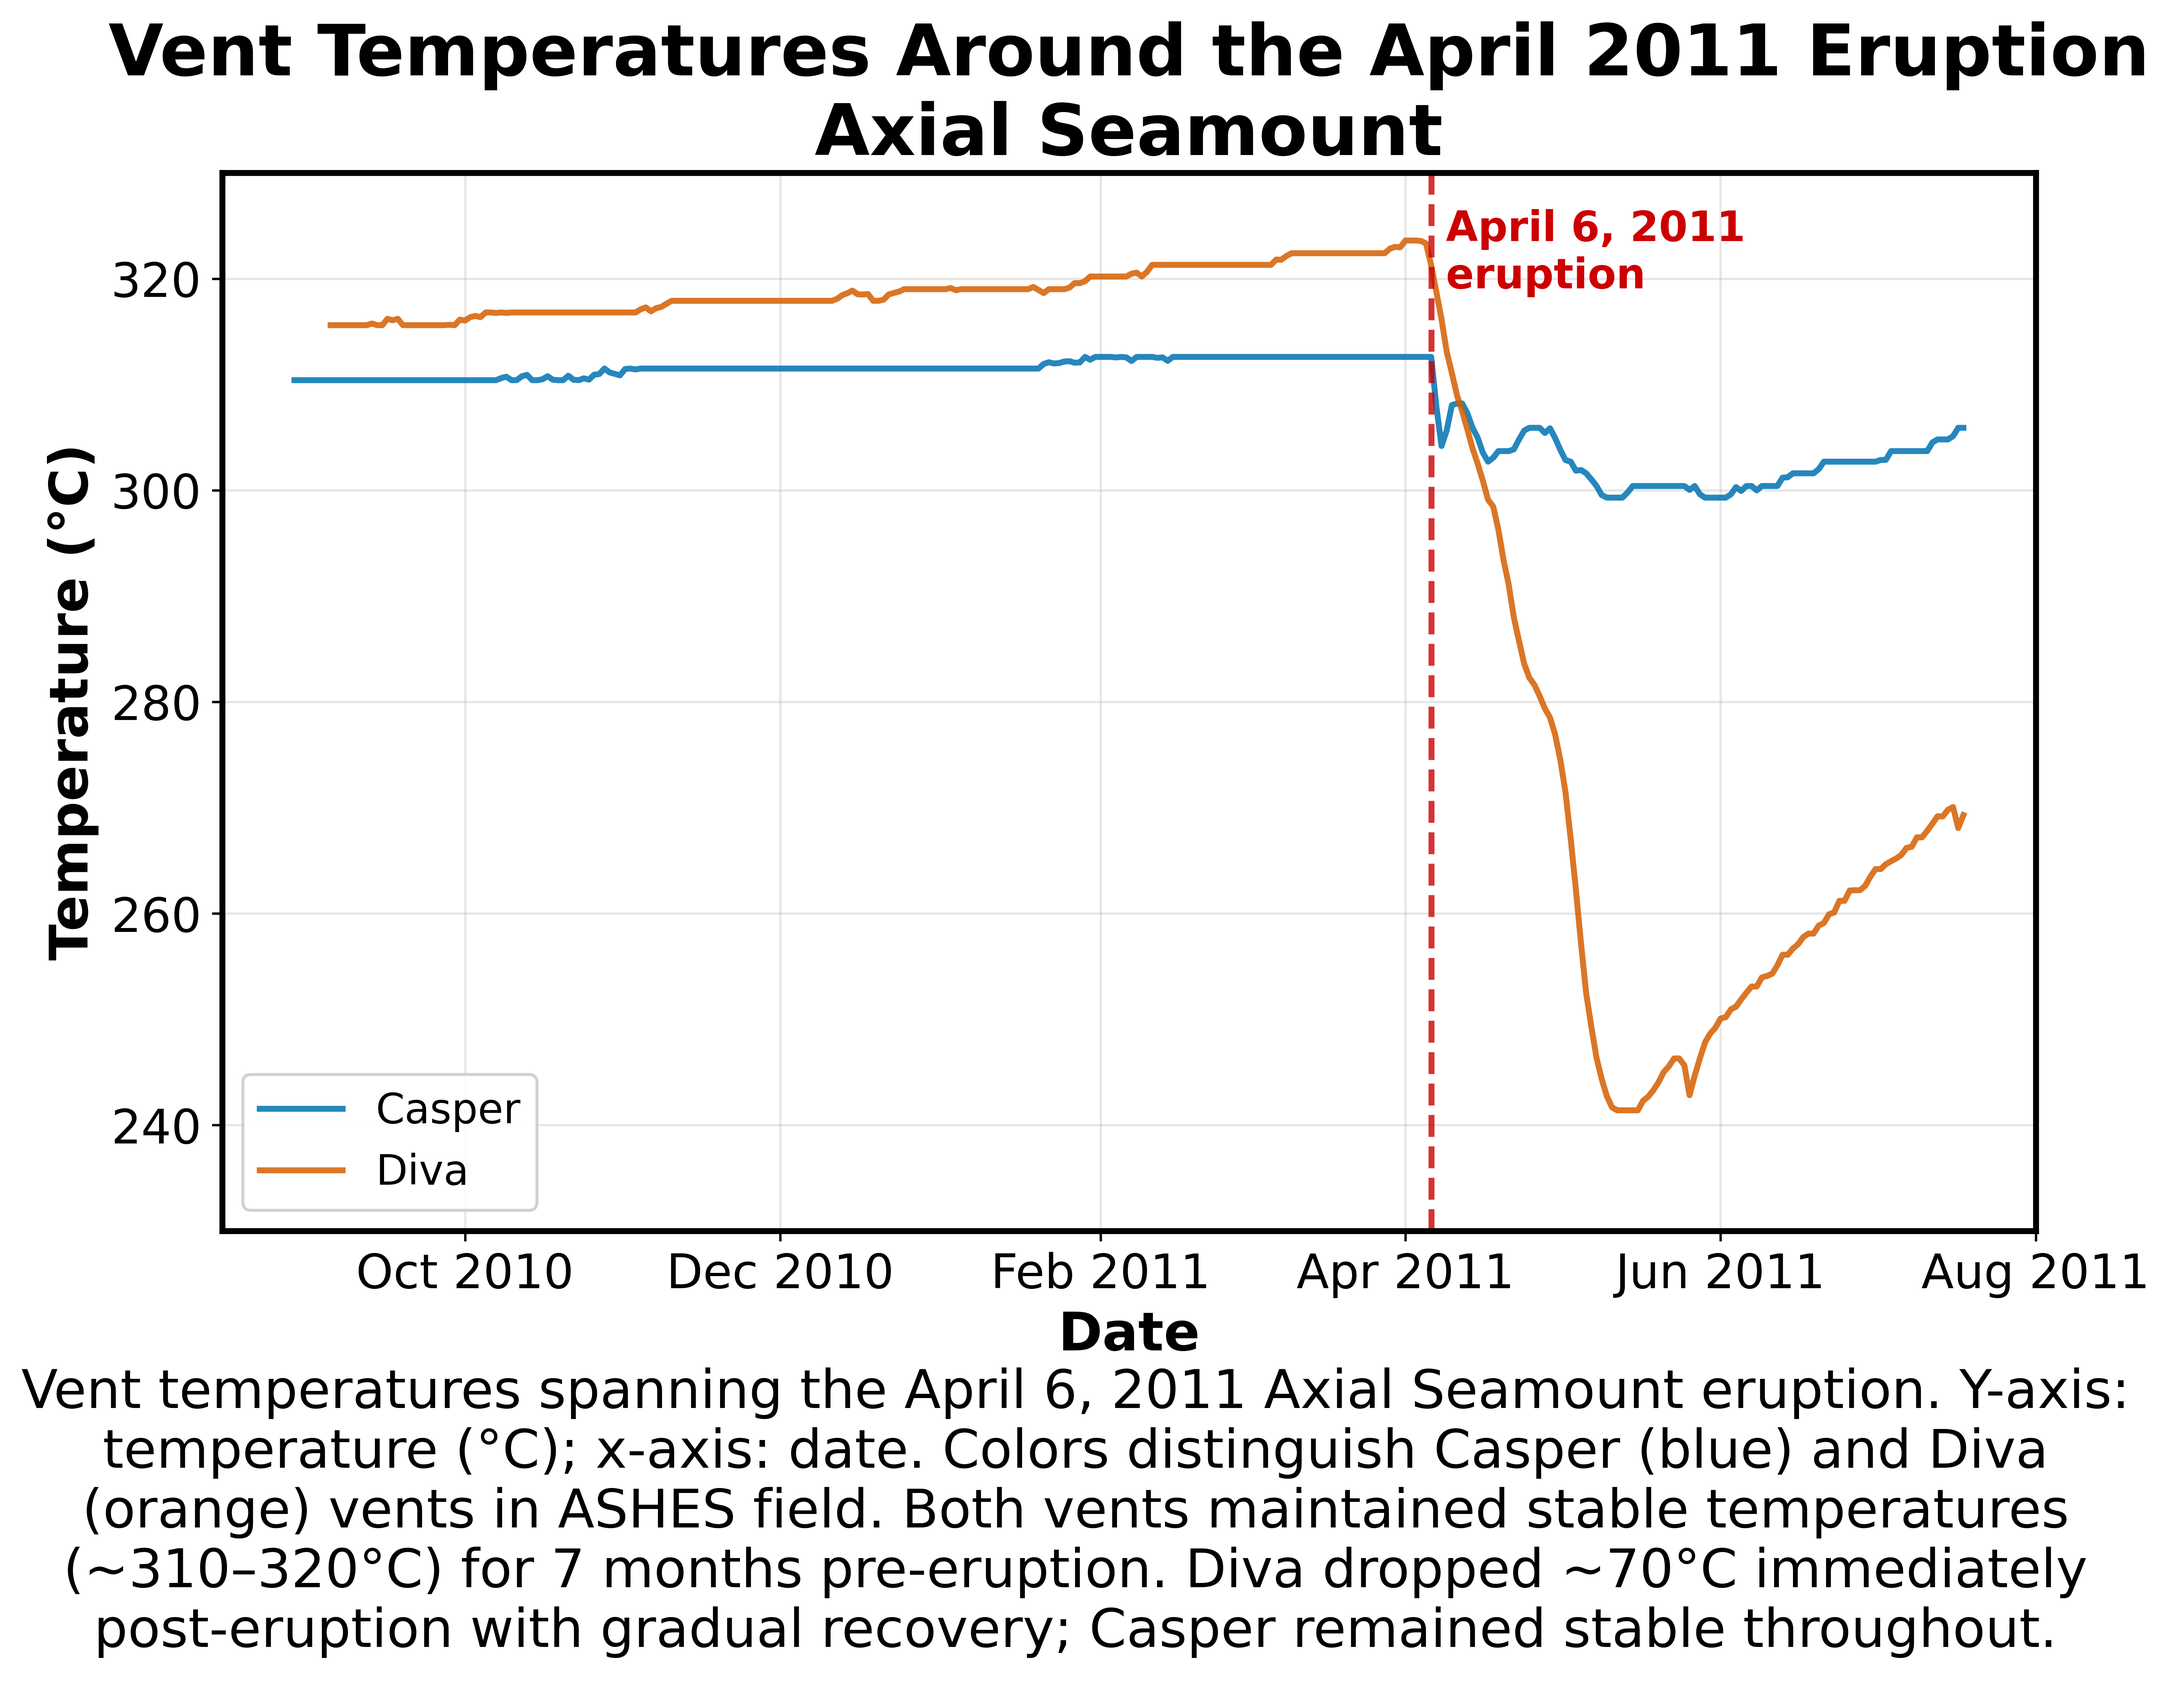
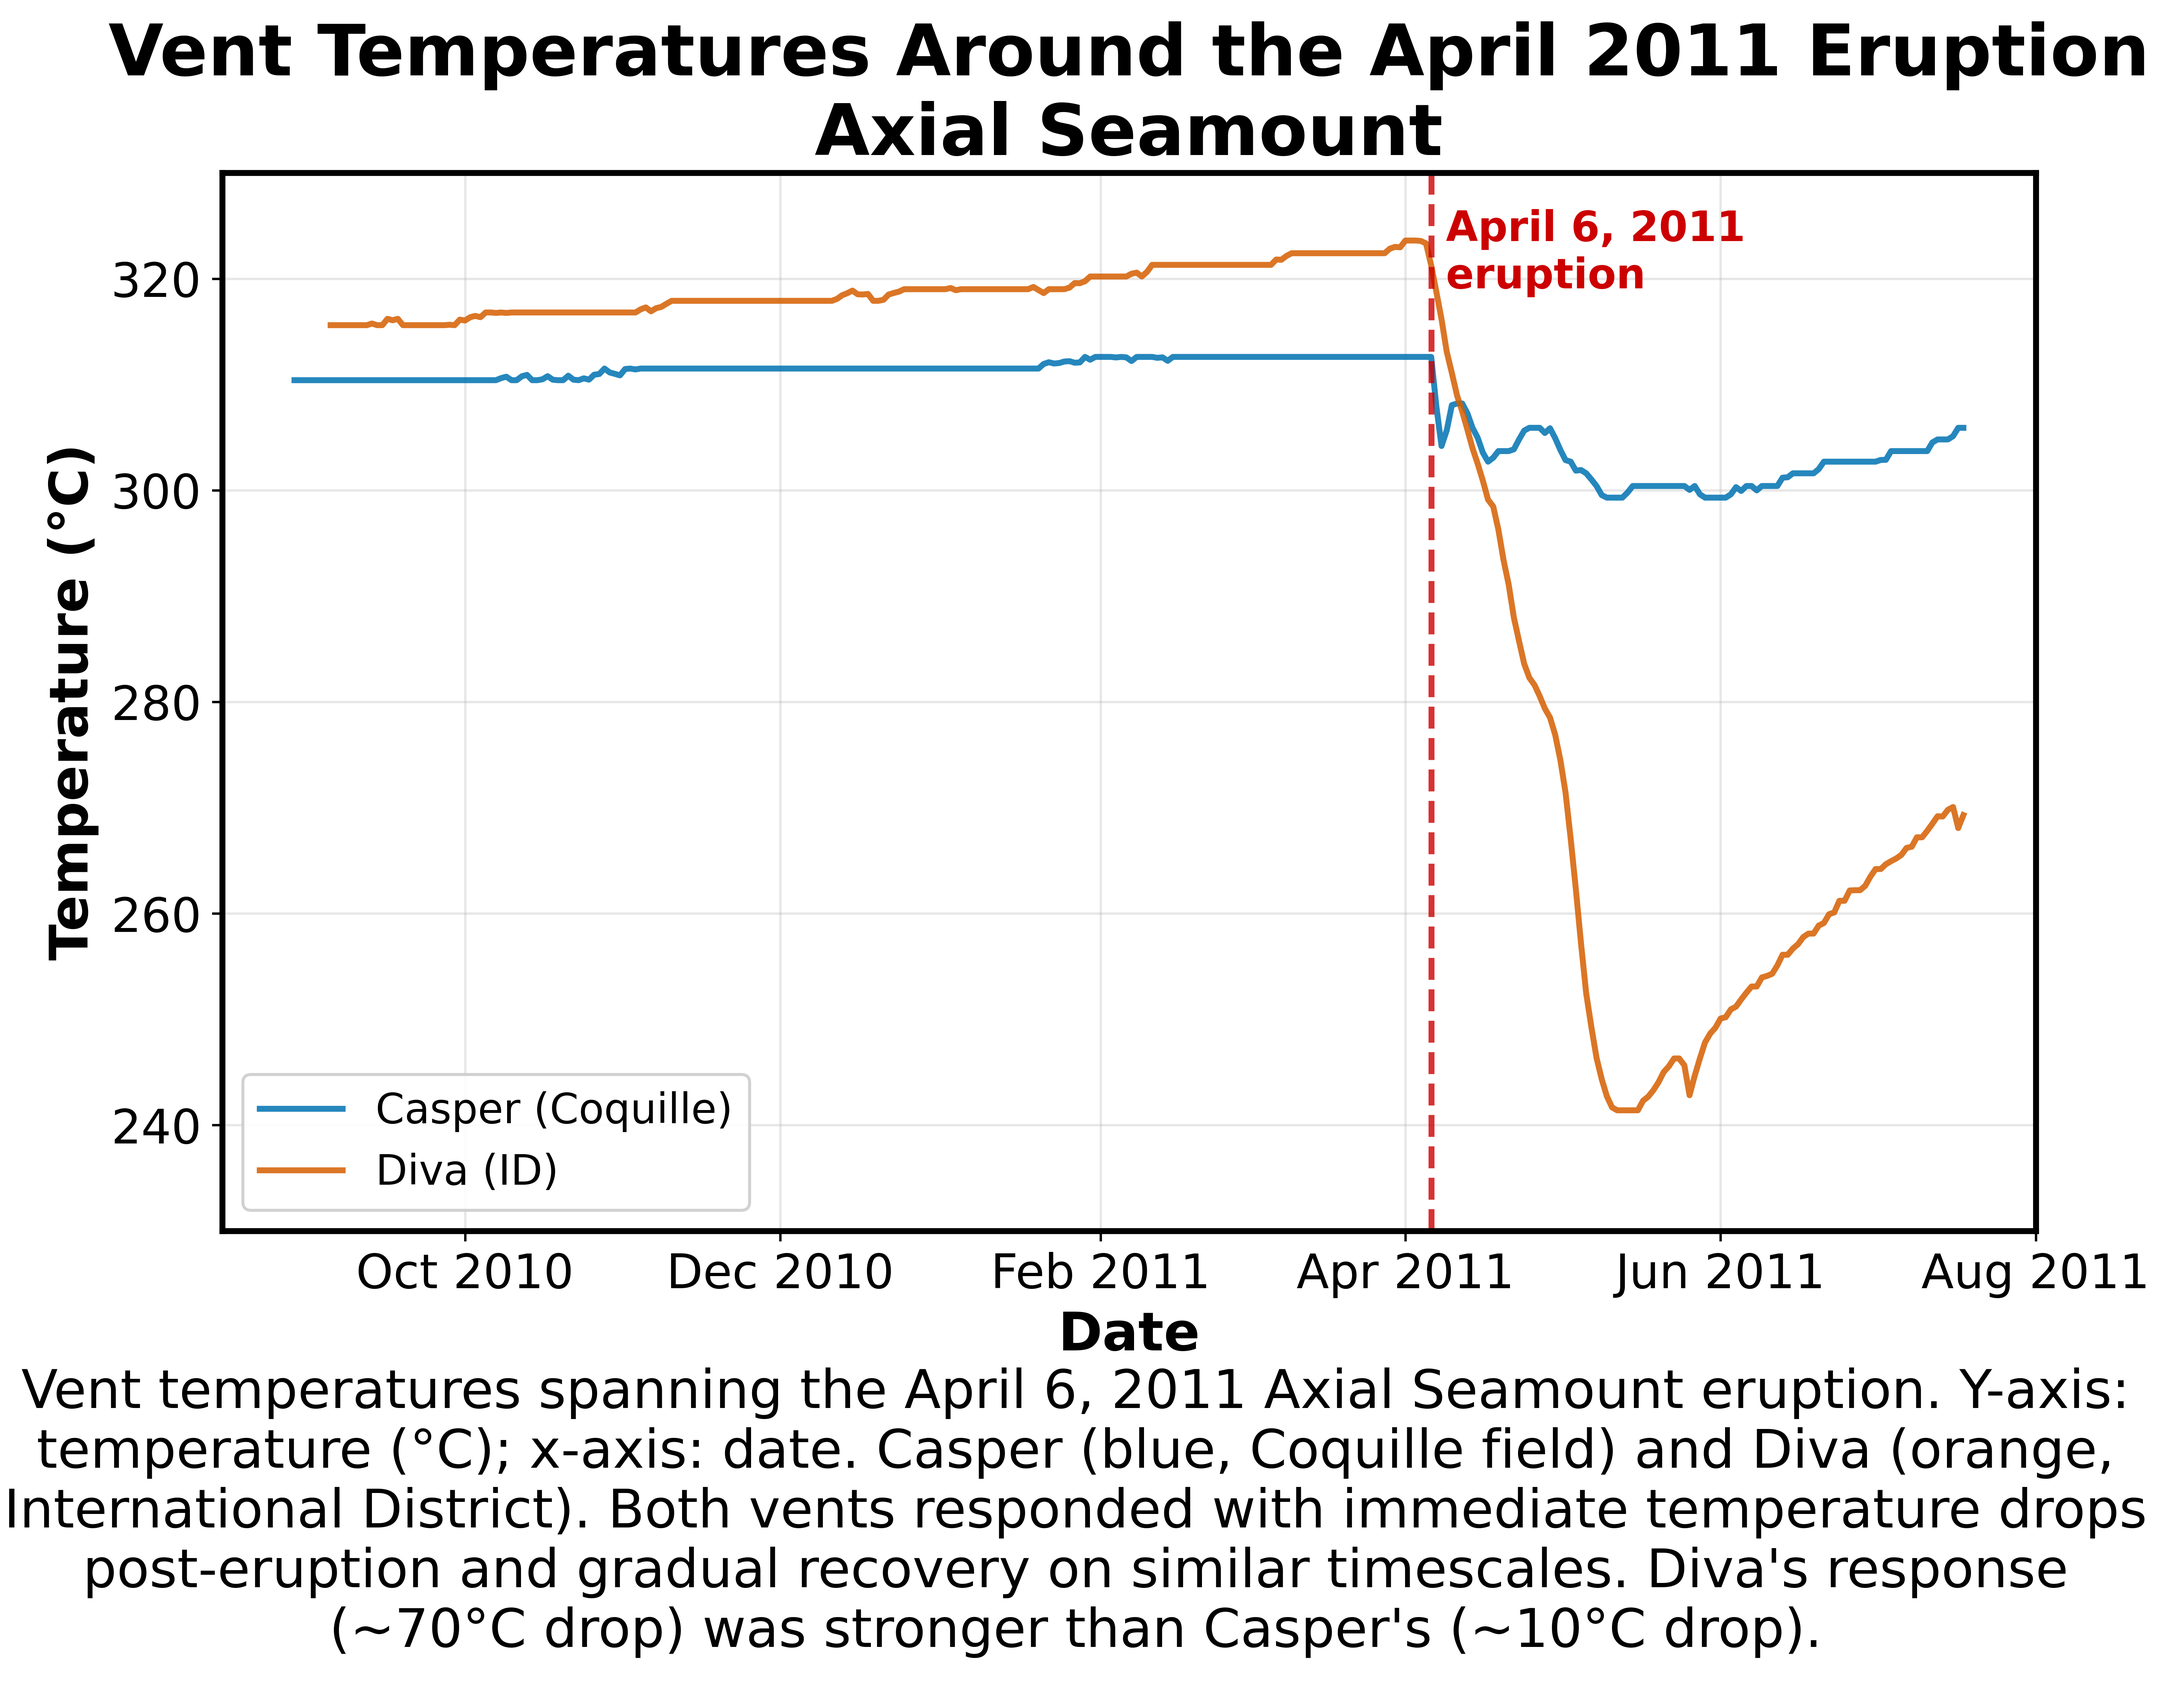
Correct vent field assignments and update 2011 eruption figure
- Casper: ASHES → Coquille (near south rift zone)
- Diva: ASHES → International District (eastern rift zone)
- Added field names to legend: Casper (Coquille), Diva (ID)
- Updated caption to reflect both vents responded to eruption
  (Diva ~70°C drop, Casper ~10°C drop) with similar recovery timescales

Changed region(s): [[0.0, 0.8434, 0.9959, 0.9996], [0.249, 0.6247, 0.3423, 0.656], [0.2179, 0.656, 0.249, 0.7184]]

diff --git a/survey.py b/survey.py
@@ -166,7 +166,7 @@ HISTORICAL_INSTRUMENTS = [
         "file": DATA_HISTORICAL / "casper" / "MISO104-Chip1-Axial-2010-Casper.txt",
         "instrument": "MISO 104",
         "vent": "Casper",
-        "field": "ASHES",
+        "field": "Coquille",
         "deployment": "2010-2011",
         "format": "miso_historical_tab",
     },
@@ -174,7 +174,7 @@ HISTORICAL_INSTRUMENTS = [
         "file": DATA_HISTORICAL / "diva" / "MISO129-Chip1-Axial-2010-Diva.txt",
         "instrument": "MISO 129",
         "vent": "Diva",
-        "field": "ASHES",
+        "field": "International District",
         "deployment": "2010-2011",
         "format": "miso_historical_tab",
     },
@@ -385,8 +385,11 @@ def fig_historical_eruption(records, fig_path, eruption_date=None):
     for rec in records:
         deployed = rec[rec["deployed"]]
         vent = rec.attrs["vent"]
+        field = rec.attrs["field"]
+        # Abbreviate International District
+        field_abbr = "ID" if field == "International District" else field
         color = VENT_COLORS.get(vent, "#333333")
-        label = f"{vent}"
+        label = f"{vent} ({field_abbr})"
         daily = deployed["temperature"].resample("D").mean()
         daily = daily[daily.index <= data_end]  # Trim to local max
         ax.plot(daily.index, daily.values, color=color, linewidth=POSTER_LINE_WIDTH, alpha=0.85, label=label)
@@ -422,9 +425,9 @@ def fig_historical_eruption(records, fig_path, eruption_date=None):
     # Figure caption (20pt font for poster)
     caption = (
         "Vent temperatures spanning the April 6, 2011 Axial Seamount eruption. "
-        "Y-axis: temperature (°C); x-axis: date. Colors distinguish Casper (blue) and Diva (orange) vents in ASHES field. "
-        "Both vents maintained stable temperatures (~310–320°C) for 7 months pre-eruption. "
-        "Diva dropped ~70°C immediately post-eruption with gradual recovery; Casper remained stable throughout."
+        "Y-axis: temperature (°C); x-axis: date. Casper (blue, Coquille field) and Diva (orange, International District). "
+        "Both vents responded with immediate temperature drops post-eruption and gradual recovery on similar timescales. "
+        "Diva's response (~70°C drop) was stronger than Casper's (~10°C drop)."
     )
     add_figure_caption(fig, caption, fontsize=POSTER_CAPTION_SIZE)
 
